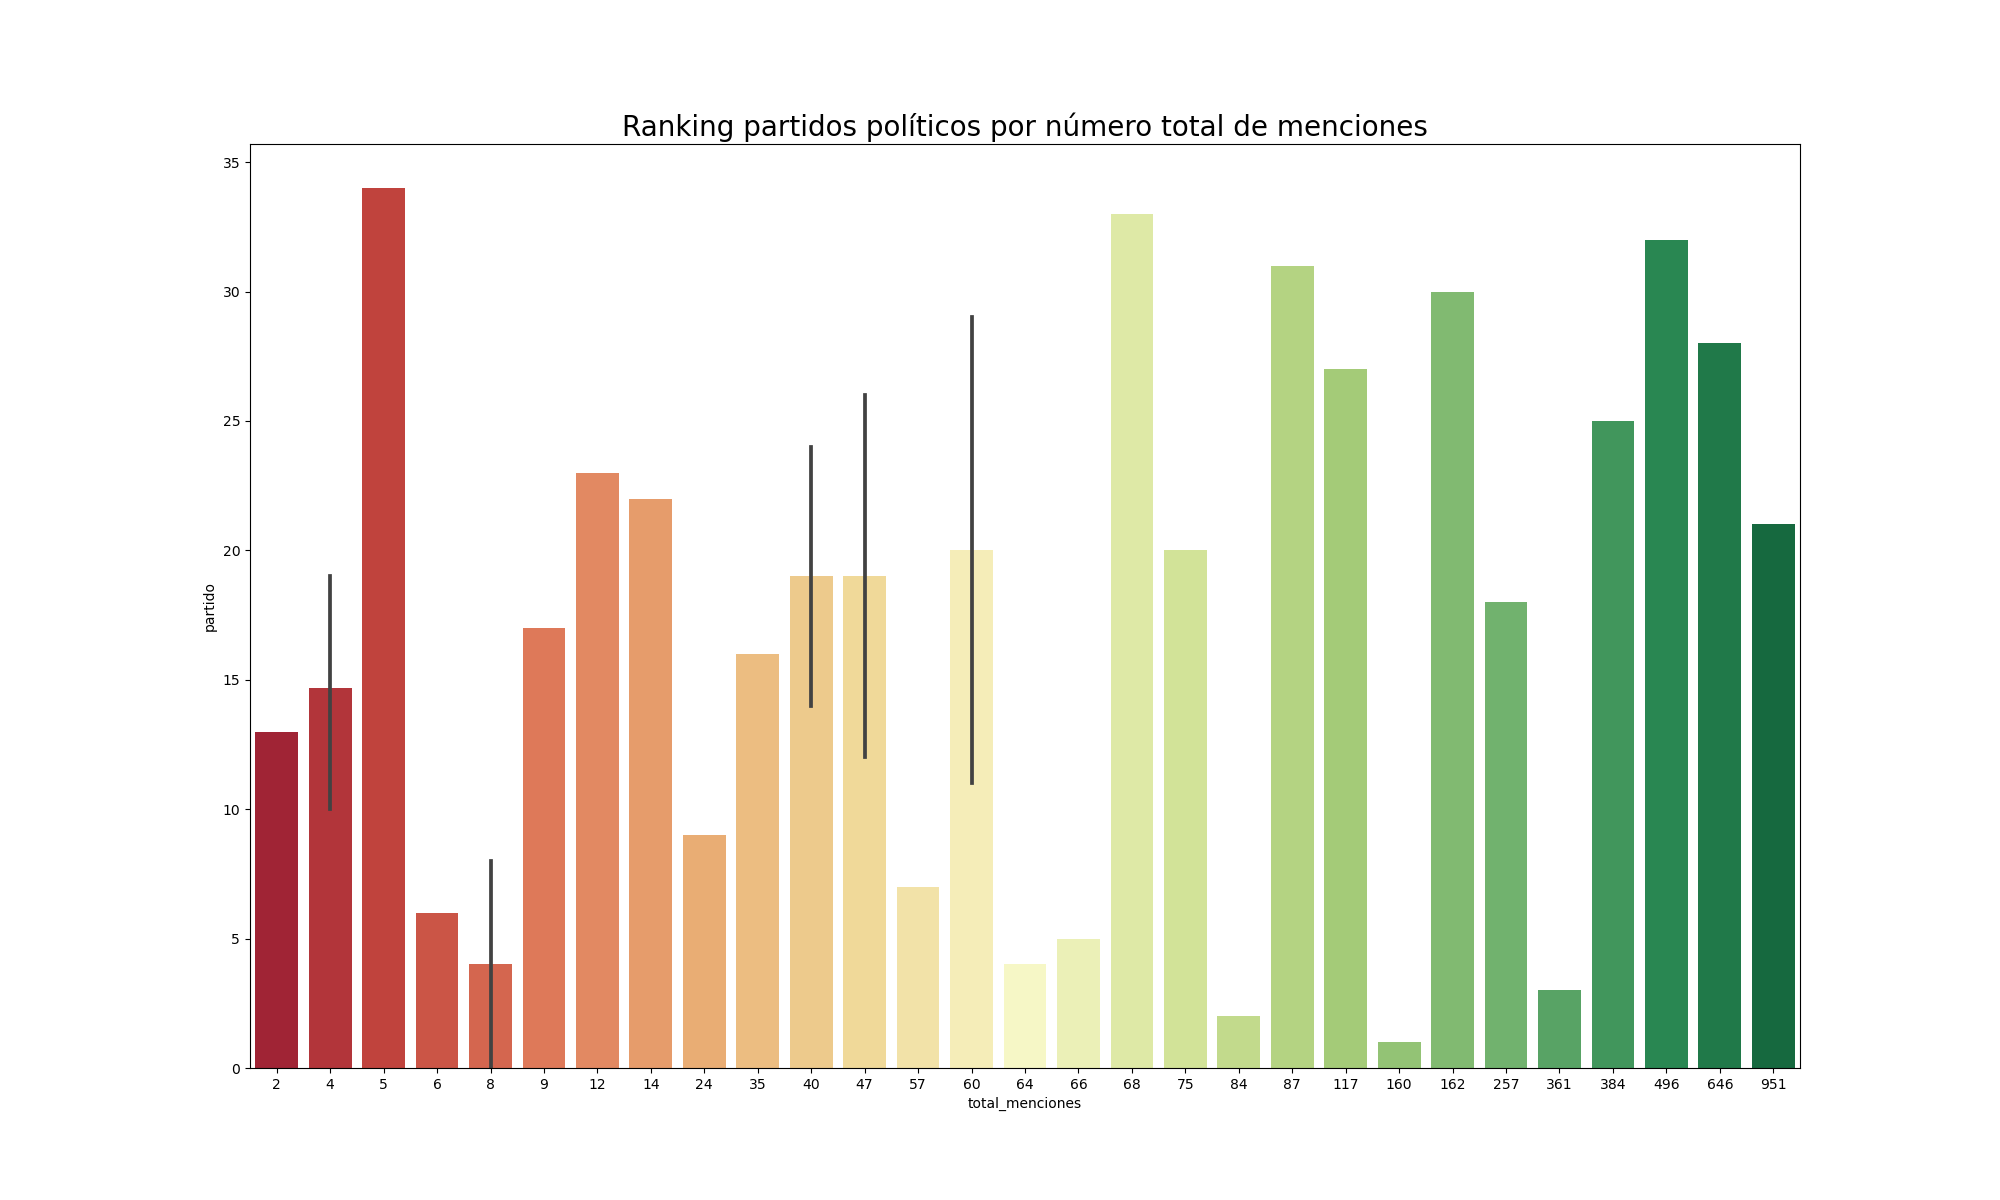
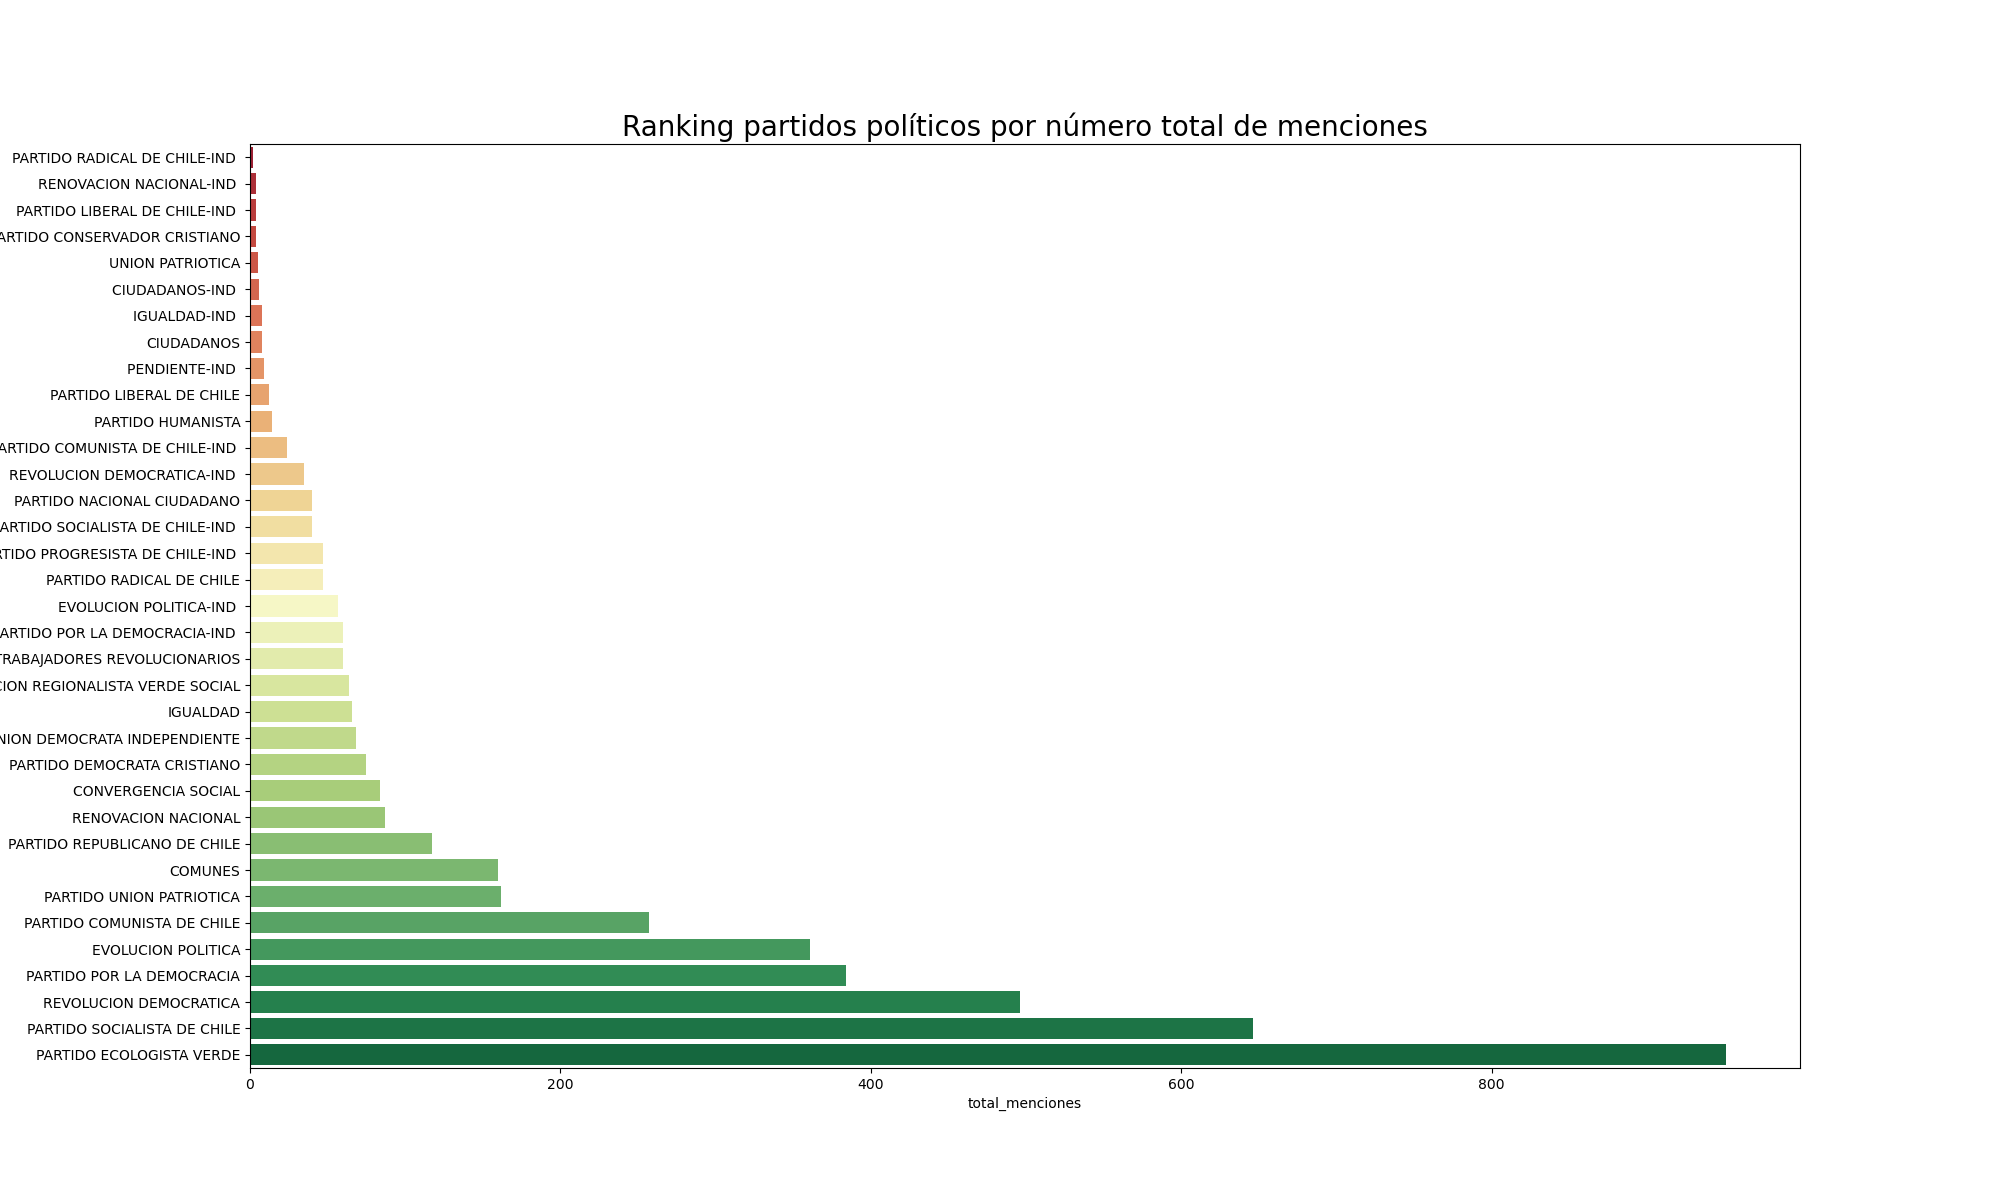
MILESTONE: recovered party plotter, sent to static

Changed region(s): [[0.0, 0.1233, 0.899, 0.8942]]

diff --git a/plotters.py b/plotters.py
@@ -37,19 +37,23 @@ fig, ax = plt.subplots(1, figsize=(20,12))
 p=sns.heatmap(psdf[temas].replace(0,np.nan), annot=True, annot_kws={'size':16, 'weight': 'bold'}, cmap='RdYlGn', fmt='.0f');
 plt.xticks(rotation=45); plt.title('Menciones ambientales por tema y partido (incluye independientes)', size=24);
 plt.savefig('static/heatmap_partidosI.png')
+plt.close()
 
 fig, ax = plt.subplots(1, figsize=(20,12))
 p=sns.heatmap(psdf[psdf.index!='INDEPENDIENTES'][temas].replace(0, np.nan), 
               annot=True, annot_kws={'size':16, 'weight': 'bold'}, cmap='RdYlGn', fmt='.0f');
 plt.xticks(rotation=45); plt.title('Menciones ambientales por tema y partido (excluye independientes)', size=24);
 plt.savefig('static/heatmap_partidos.png')
+plt.close()
 
 tdf = psdf[psdf.index!='INDEPENDIENTES'][temas].reset_index()
-tdf['partido'] = tdf['partido'].apply(lambda p: p.replace('IND ',''))   # IND RN -> RN
-ts = pd.DataFrame(tdf.sum(axis=1).reset_index())
+tdf['partido'] = tdf['partido'].apply(lambda p: p[4:]+'-IND ' if p[:3]=='IND' else p)   # IND RN -> RN
+#ts = pd.DataFrame(tdf.sum(axis=1).reset_index())
+ts = tdf.groupby('partido').sum().sum(axis=1).sort_values().reset_index()
 ts.columns = ['partido','total_menciones']
 ts = ts[ts.total_menciones>0]
 fig,ax = plt.subplots(1, figsize=(20,12))
 sns.barplot(x='total_menciones', data=ts.sort_values('total_menciones'), y='partido', palette='RdYlGn');
 plt.title('Ranking partidos políticos por número total de menciones', size=20)
 plt.savefig('static/ranking.png')
+plt.close()
